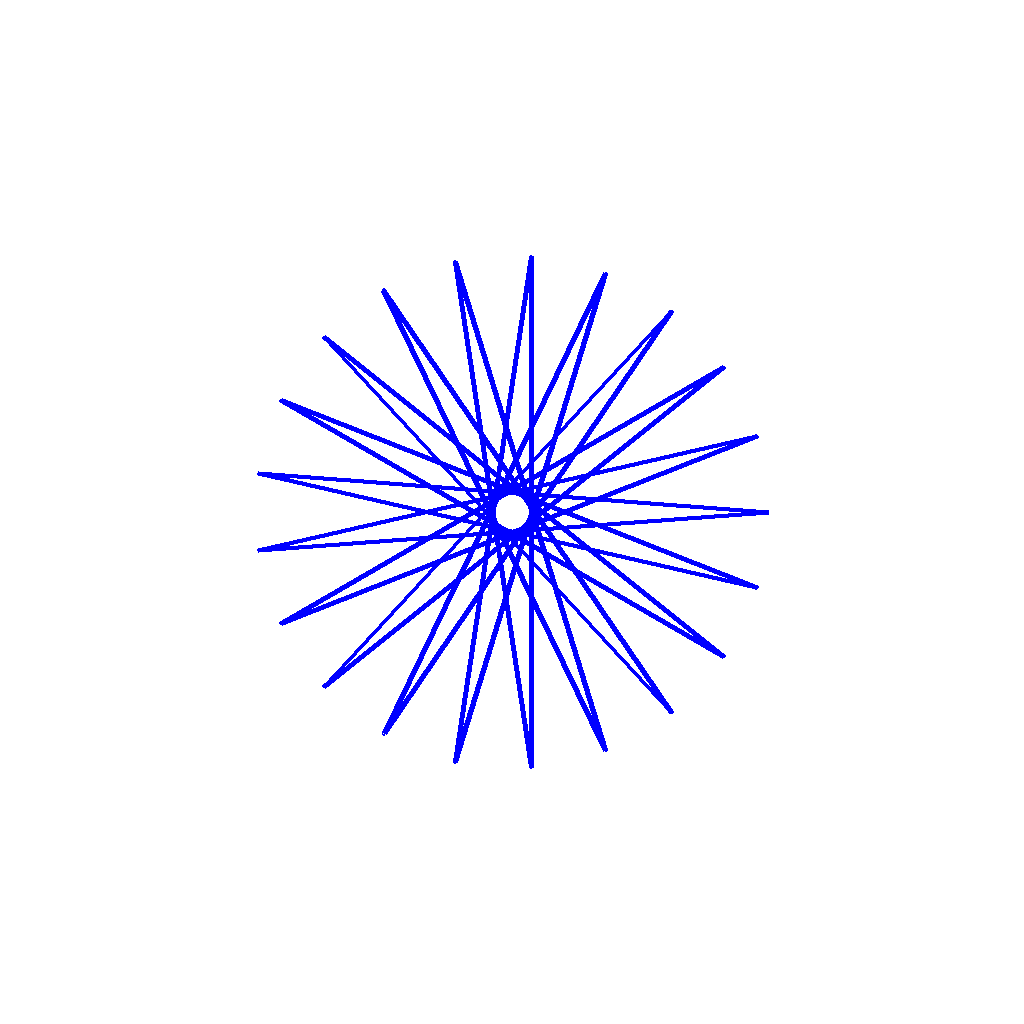
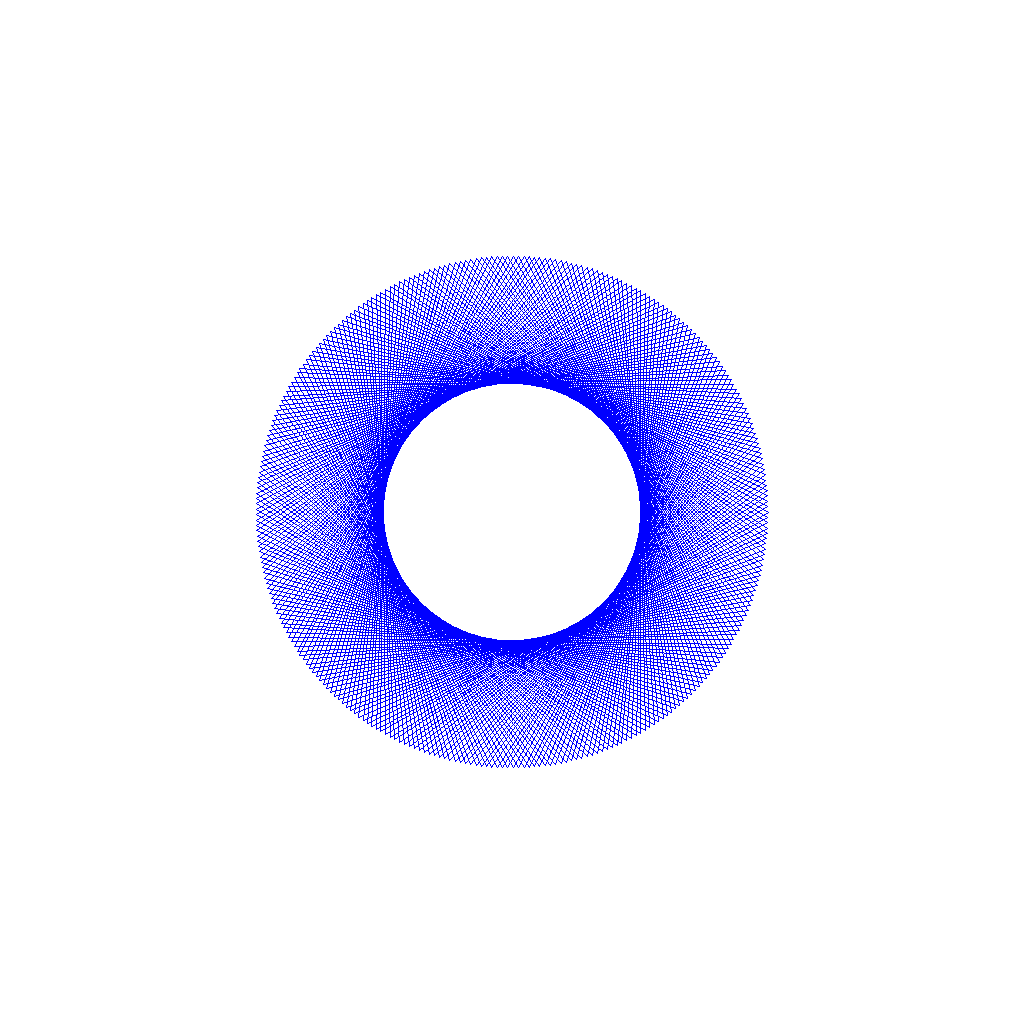
poly

Changed region(s): [[0.25, 0.25, 0.75, 0.75]]

diff --git a/polygon.py b/polygon.py
@@ -65,7 +65,7 @@ def main():
 
     # draw.point(xy, fill=(255,0,0))
     # 点と点の間を線で結んでいく
-    draw.line(xy, fill=(0,0,255), width= 5 , joint="curve")
+    draw.line(xy, fill=(0,0,255), width= 1 , joint="curve")
 
     # 画像の保存
     img.save("image.png")
